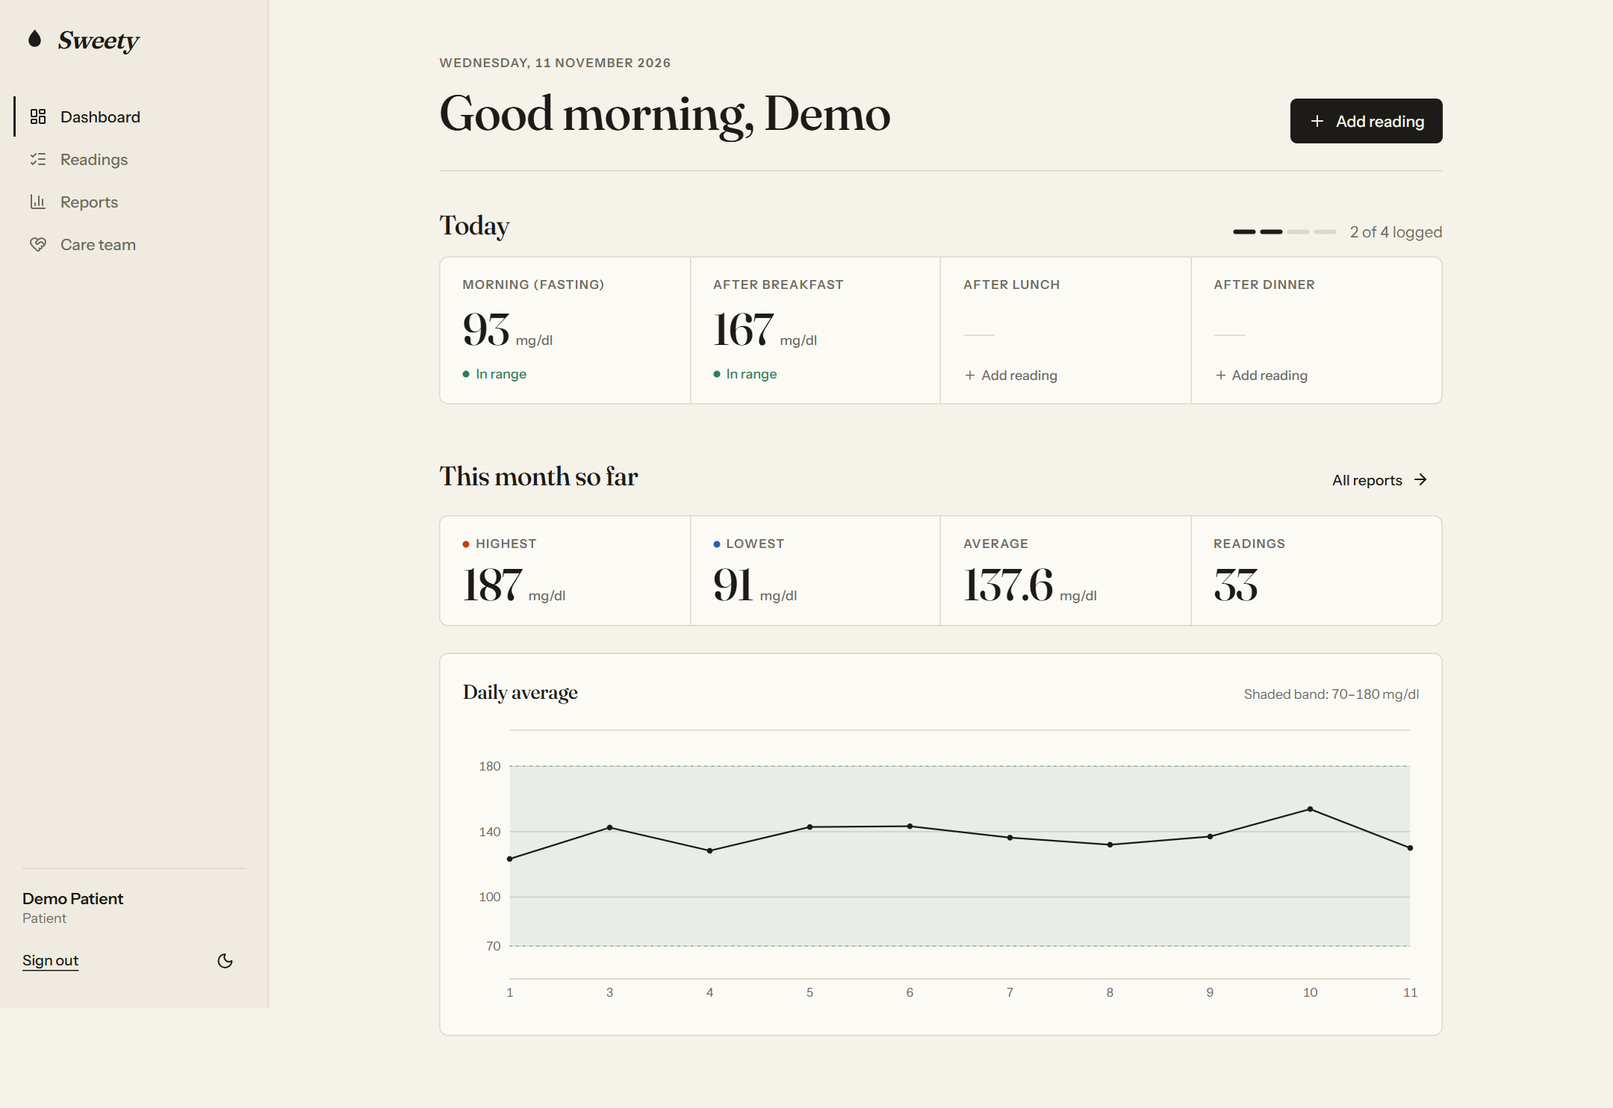
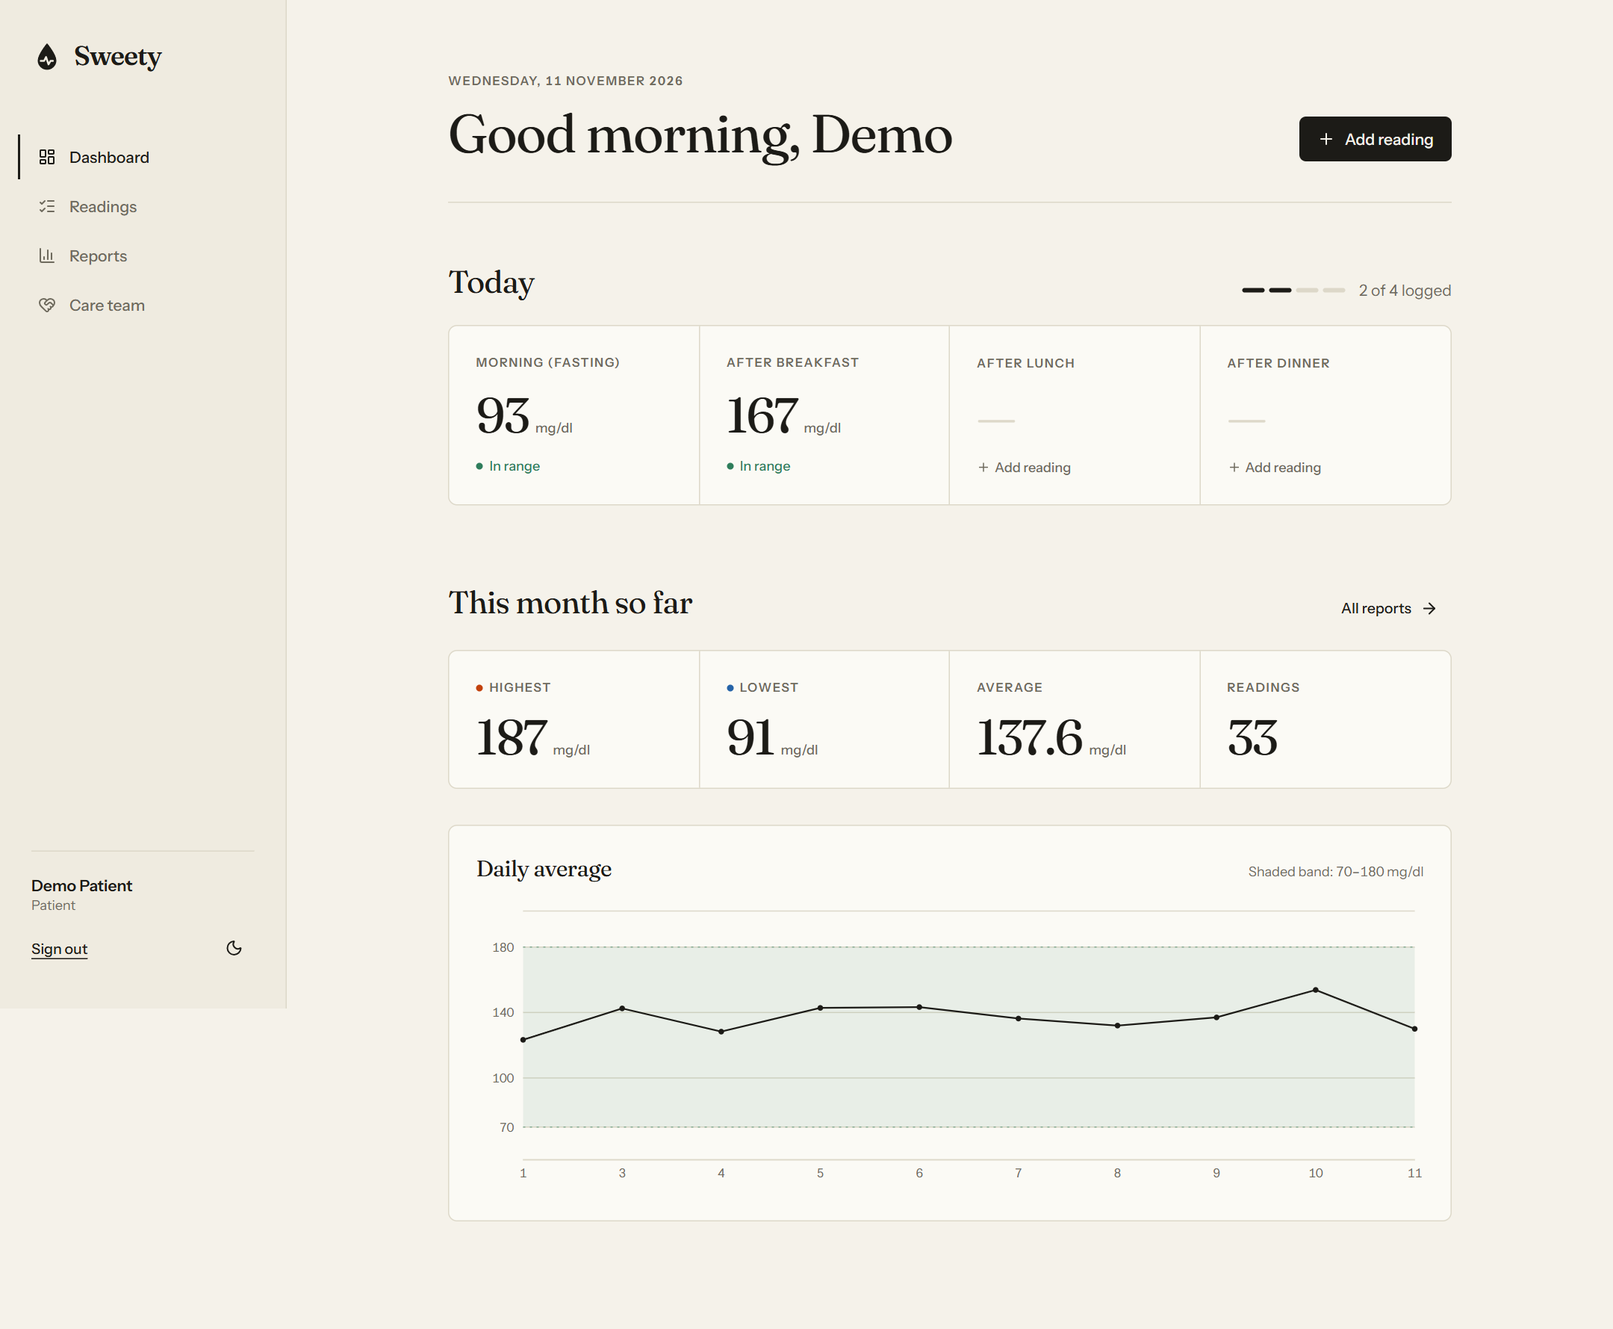
Apply consistent spacing rhythm across shell, dashboard, reports and forms; refresh screenshots

diff --git a/client/src/components/AppShell.jsx b/client/src/components/AppShell.jsx
@@ -5,13 +5,26 @@ import { Button } from '@/components/ui/primitives';
 import { useAuth } from '@/hooks/useAuth';
 import { cn } from '@/lib/utils';
 
+/** Drop with an ECG pulse cut out of it (mask keeps it background-agnostic). */
+export function LogoMark({ className }) {
+  return (
+    <svg viewBox="0 0 32 32" className={cn('size-7', className)} aria-hidden>
+      <defs>
+        <mask id="sweety-pulse">
+          <rect width="32" height="32" fill="#fff" />
+          <path d="M9.5 21h3.5l2-4 2.5 7.5 2-3.5h2.5" fill="none" stroke="#000" strokeWidth="1.9" strokeLinecap="round" strokeLinejoin="round" />
+        </mask>
+      </defs>
+      <path mask="url(#sweety-pulse)" fill="currentColor" d="M16 3S6.5 14 6.5 20.5a9.5 9.5 0 0 0 19 0C25.5 14 16 3 16 3z" />
+    </svg>
+  );
+}
+
 export function Logo({ className }) {
   return (
-    <div className={cn('flex items-center gap-2', className)}>
-      <svg viewBox="0 0 24 24" className="size-[22px]" aria-hidden>
-        <path d="M12 2.5c3.2 4 6 7 6 11a6 6 0 0 1-12 0c0-4 2.8-7 6-11z" fill="currentColor" />
-      </svg>
-      <span className="font-display text-[22px] font-semibold italic leading-none tracking-tight">Sweety</span>
+    <div className={cn('flex items-center gap-2.5', className)}>
+      <LogoMark />
+      <span className="font-display text-2xl font-semibold leading-none tracking-[-0.03em]">Sweety</span>
     </div>
   );
 }
@@ -44,19 +57,19 @@ export function AppShell() {
   return (
     <div className="min-h-dvh">
       {/* Desktop sidebar */}
-      <aside className="fixed inset-y-0 left-0 hidden w-60 flex-col border-r bg-paper-2 px-5 py-6 lg:flex">
-        <Logo className="mb-10" />
-        <nav className="flex flex-1 flex-col gap-0.5" aria-label="Main">
+      <aside className="fixed inset-y-0 left-0 hidden w-64 flex-col border-r bg-paper-2 px-7 py-9 lg:flex">
+        <Logo className="mb-14" />
+        <nav className="flex flex-1 flex-col gap-1" aria-label="Main">
           {nav.map(({ to, label, icon: Icon, end }) => (
             <NavLink
               key={to} to={to} end={end}
-              className={({ isActive }) => cn('-ml-2 flex items-center gap-3 border-l-2 border-transparent py-2 pl-3 text-sm font-medium text-muted-foreground transition-colors hover:text-foreground', isActive && 'border-foreground text-foreground')}
+              className={({ isActive }) => cn('-ml-3 flex items-center gap-3 border-l-2 border-transparent py-2.5 pl-4 text-sm font-medium text-muted-foreground transition-colors hover:text-foreground', isActive && 'border-foreground text-foreground')}
             >
               <Icon className="size-4" />{label}
             </NavLink>
           ))}
         </nav>
-        <div className="border-t pt-4">
+        <div className="border-t pt-5">
           <p className="truncate text-sm font-semibold">{user.name}</p>
           <p className="mb-3 text-xs capitalize text-muted-foreground">{user.role}</p>
           <div className="flex items-center justify-between">
@@ -75,7 +88,7 @@ export function AppShell() {
         </div>
       </header>
 
-      <main className="px-4 pb-24 pt-8 sm:px-8 lg:ml-60 lg:px-12 lg:pb-16 lg:pt-12">
+      <main className="px-5 pb-28 pt-9 sm:px-10 lg:ml-64 lg:px-16 lg:pb-24 lg:pt-16">
         <div className="mx-auto max-w-4xl"><Outlet /></div>
       </main>
 
@@ -96,11 +109,11 @@ export function AppShell() {
 
 export function PageHeader({ title, subtitle, eyebrow, actions }) {
   return (
-    <div className="mb-8 flex flex-col gap-4 border-b pb-6 sm:flex-row sm:items-end sm:justify-between">
+    <div className="mb-12 flex flex-col gap-5 border-b pb-9 sm:flex-row sm:items-end sm:justify-between">
       <div>
-        {eyebrow && <p className="eyebrow mb-2">{eyebrow}</p>}
-        <h1 className="text-4xl leading-tight sm:text-[2.75rem]">{title}</h1>
-        {subtitle && <p className="mt-2 max-w-xl text-muted-foreground">{subtitle}</p>}
+        {eyebrow && <p className="eyebrow mb-3">{eyebrow}</p>}
+        <h1 className="text-[2.5rem] leading-[1.05] sm:text-5xl">{title}</h1>
+        {subtitle && <p className="mt-3 max-w-xl text-muted-foreground">{subtitle}</p>}
       </div>
       {actions && <div className="flex gap-2">{actions}</div>}
     </div>

diff --git a/client/src/pages/AuthPage.jsx b/client/src/pages/AuthPage.jsx
@@ -81,12 +81,12 @@ export default function AuthPage() {
 
   return (
     <div className="grid min-h-dvh lg:grid-cols-[1.1fr_1fr]">
-      <div className="hidden flex-col justify-between border-r bg-paper-2 p-12 lg:flex">
+      <div className="hidden flex-col justify-between border-r bg-paper-2 p-16 lg:flex">
         <Logo />
         <div className="max-w-lg">
-          <h2 className="text-[3.5rem] leading-[1.02]">A quiet place to keep track of your sugar.</h2>
-          <p className="mt-5 max-w-md text-lg text-muted-foreground">Log up to four readings a day. Sweety turns them into plain daily and monthly summaries you can show your doctor.</p>
-          <div className="mt-12"><DaySketch /></div>
+          <h2 className="text-[3.75rem] leading-[1.02]">A quiet place to keep track of your sugar.</h2>
+          <p className="mt-6 max-w-md text-lg text-muted-foreground">Log up to four readings a day. Sweety turns them into plain daily and monthly summaries you can show your doctor.</p>
+          <div className="mt-16"><DaySketch /></div>
         </div>
         <p className="text-xs text-muted-foreground">Sweety is a tracking aid, not medical advice.</p>
       </div>
@@ -95,17 +95,17 @@ export default function AuthPage() {
         <div className="flex items-center justify-between p-5 lg:justify-end"><Logo className="lg:hidden" /><ThemeToggle /></div>
         <div className="flex flex-1 items-center justify-center px-6 pb-12">
           <div className="w-full max-w-sm">
-            <h1 className="text-4xl">{mode === 'login' ? 'Welcome back' : 'Create an account'}</h1>
-            <p className="mt-2 text-muted-foreground">{mode === 'login' ? 'Sign in to see your readings.' : 'It takes less than a minute.'}</p>
+            <h1 className="text-[2.5rem] leading-[1.05]">{mode === 'login' ? 'Welcome back' : 'Create an account'}</h1>
+            <p className="mt-3 text-muted-foreground">{mode === 'login' ? 'Sign in to see your readings.' : 'It takes less than a minute.'}</p>
 
-            <Tabs value={mode} onValueChange={(m) => { setMode(m); setErrors({}); setFormError(''); }} className="mt-7">
+            <Tabs value={mode} onValueChange={(m) => { setMode(m); setErrors({}); setFormError(''); }} className="mt-8">
               <TabsList className="w-full">
                 <TabsTrigger value="login">Sign in</TabsTrigger>
                 <TabsTrigger value="signup">Sign up</TabsTrigger>
               </TabsList>
             </Tabs>
 
-            <form onSubmit={submit} noValidate className="mt-6 space-y-4" aria-label={mode === 'login' ? 'Sign in' : 'Sign up'}>
+            <form onSubmit={submit} noValidate className="mt-7 space-y-5" aria-label={mode === 'login' ? 'Sign in' : 'Sign up'}>
               {mode === 'signup' && (
                 <>
                   <div className="grid grid-cols-2 gap-2" role="radiogroup" aria-label="Account type">
@@ -139,7 +139,7 @@ export default function AuthPage() {
             </form>
 
             {mode === 'login' && (
-              <p className="mt-6 text-center text-xs text-muted-foreground">
+              <p className="mt-8 text-center text-xs text-muted-foreground">
                 Demo accounts:{' '}
                 <button type="button" className="cursor-pointer font-semibold text-foreground underline underline-offset-4" onClick={() => fillDemo('patient')}>patient</button>{' · '}
                 <button type="button" className="cursor-pointer font-semibold text-foreground underline underline-offset-4" onClick={() => fillDemo('doctor')}>doctor</button>

diff --git a/client/src/components/ReportView.jsx b/client/src/components/ReportView.jsx
@@ -24,12 +24,12 @@ export function StatBand({ stats }) {
   return (
     <dl className="grid grid-cols-2 divide-x divide-y rounded-lg border bg-card lg:grid-cols-4 lg:divide-y-0">
       {items.map((it) => (
-        <div key={it.label} className="px-5 py-4">
+        <div key={it.label} className="px-6 py-6">
           <dt className="eyebrow flex items-center gap-1.5">
             {it.color && <span className="size-1.5 rounded-full" style={{ background: it.color }} aria-hidden />}
             {it.label}
           </dt>
-          <dd className="num mt-2 text-[2.5rem] leading-none">
+          <dd className="num mt-3 text-[2.75rem]">
             {it.value}
             {it.unit && <span className="ml-1.5 font-sans text-xs font-medium tracking-normal text-muted-foreground">{it.unit}</span>}
           </dd>
@@ -41,7 +41,7 @@ export function StatBand({ stats }) {
 
 export function EmptyState({ title = 'No readings yet', text, action }) {
   return (
-    <div className="rounded-lg border border-dashed px-6 py-12 sm:px-10">
+    <div className="rounded-lg border border-dashed px-8 py-14 sm:px-12">
       <h3 className="text-2xl">{title}</h3>
       <p className="mt-2 max-w-md text-sm text-muted-foreground">{text}</p>
       {action && <div className="mt-5">{action}</div>}
@@ -60,13 +60,13 @@ export function ReportBody({ report, onAdd }) {
     );
   }
   return (
-    <div className="space-y-6">
+    <div className="space-y-8">
       <StatBand stats={report.stats} />
 
       {report.type !== 'daily' && report.readings.length > 1 && (
-        <section className="rounded-lg border bg-card p-5">
-          <div className="mb-3 flex items-baseline justify-between gap-4">
-            <h3 className="text-lg">Daily average</h3>
+        <section className="rounded-lg border bg-card p-6">
+          <div className="mb-4 flex items-baseline justify-between gap-4">
+            <h3 className="text-xl">Daily average</h3>
             <p className="text-xs text-muted-foreground">Shaded band: 70–180 mg/dl</p>
           </div>
           <ReadingChart readings={report.readings} />
@@ -75,10 +75,10 @@ export function ReportBody({ report, onAdd }) {
 
       {report.type === 'daily' && (
         <section>
-          <h3 className="mb-2 text-lg">Readings</h3>
+          <h3 className="mb-3 text-xl">Readings</h3>
           <ul className="divide-y rounded-lg border bg-card">
             {report.readings.map((r) => (
-              <li key={r.id} className="flex items-center gap-4 px-5 py-3.5">
+              <li key={r.id} className="flex items-center gap-4 px-6 py-4">
                 <div className="min-w-0 flex-1">
                   <p className="text-sm font-medium">{r.slotLabel}</p>
                   {r.notes && <p className="truncate text-xs text-muted-foreground">{r.notes}</p>}
@@ -102,8 +102,8 @@ export function ReportExplorer({ patientId, onAdd, initialDate }) {
   const tab = REPORT_TABS.find((t) => t.value === type);
 
   return (
-    <div className="space-y-6">
-      <div className="flex flex-col gap-3 sm:flex-row sm:items-end sm:justify-between">
+    <div className="space-y-8">
+      <div className="flex flex-col gap-4 sm:flex-row sm:items-end sm:justify-between">
         <Tabs value={type} onValueChange={setType}>
           <TabsList>
             {REPORT_TABS.map((t) => <TabsTrigger key={t.value} value={t.value}>{t.label}</TabsTrigger>)}

diff --git a/client/src/pages/Dashboard.jsx b/client/src/pages/Dashboard.jsx
@@ -38,9 +38,9 @@ export default function Dashboard() {
         actions={<Button onClick={() => open()}><Plus />Add reading</Button>}
       />
 
-      <section aria-labelledby="today-heading" className="mb-12">
-        <div className="mb-3 flex items-baseline justify-between">
-          <h2 id="today-heading" className="text-2xl">Today</h2>
+      <section aria-labelledby="today-heading" className="mb-16">
+        <div className="mb-4 flex items-baseline justify-between">
+          <h2 id="today-heading" className="text-[1.75rem]">Today</h2>
           <div className="flex items-center gap-3 text-sm text-muted-foreground">
             <span className="flex gap-1" role="progressbar" aria-valuenow={done} aria-valuemin={0} aria-valuemax={MAX_PER_DAY} aria-label="Readings logged today">
               {Array.from({ length: MAX_PER_DAY }, (_, i) => <span key={i} className={cn('h-1 w-5 rounded-full', i < done ? 'bg-foreground' : 'bg-border')} />)}
@@ -57,18 +57,18 @@ export default function Dashboard() {
                 key={s.value} type="button"
                 onClick={() => (r ? open(r) : open(null, { date, slot: s.value }))}
                 aria-label={r ? `Edit ${s.label} reading` : `Add ${s.label} reading`}
-                className="group cursor-pointer px-5 py-4 text-left transition-colors hover:bg-secondary/60"
+                className="group cursor-pointer px-6 py-6 text-left transition-colors hover:bg-secondary/60"
               >
                 <p className="eyebrow">{s.label}</p>
                 {r ? (
                   <>
-                    <p className="num mt-3 text-[2.5rem] leading-none">{r.value}<span className="ml-1.5 font-sans text-xs font-medium tracking-normal text-muted-foreground">mg/dl</span></p>
-                    <Status status={glucoseStatus(r.value)} className="mt-3" />
+                    <p className="num mt-4 text-[2.75rem]">{r.value}<span className="ml-1.5 font-sans text-xs font-medium tracking-normal text-muted-foreground">mg/dl</span></p>
+                    <Status status={glucoseStatus(r.value)} className="mt-4" />
                   </>
                 ) : (
                   <>
-                    <p className="num mt-3 text-[2.5rem] leading-none text-border">—</p>
-                    <p className="mt-3 flex items-center gap-1 text-xs font-medium text-muted-foreground group-hover:text-foreground"><Plus className="size-3" />Add reading</p>
+                    <p className="num mt-4 text-[2.75rem] text-border">—</p>
+                    <p className="mt-4 flex items-center gap-1 text-xs font-medium text-muted-foreground group-hover:text-foreground"><Plus className="size-3" />Add reading</p>
                   </>
                 )}
               </button>
@@ -77,9 +77,9 @@ export default function Dashboard() {
         </div>
       </section>
 
-      <section aria-labelledby="mtd-heading" className="space-y-4">
+      <section aria-labelledby="mtd-heading" className="space-y-5">
         <div className="flex items-baseline justify-between">
-          <h2 id="mtd-heading" className="text-2xl">This month so far</h2>
+          <h2 id="mtd-heading" className="text-[1.75rem]">This month so far</h2>
           <Button asChild variant="ghost" size="sm"><Link to="/reports">All reports<ArrowRight /></Link></Button>
         </div>
         {month.loading && !month.data ? (

diff --git a/client/src/pages/ReadingsPage.jsx b/client/src/pages/ReadingsPage.jsx
@@ -47,7 +47,7 @@ export default function ReadingsPage() {
         actions={<Button onClick={() => setDialog({ open: true, reading: null })}><Plus />Add reading</Button>}
       />
 
-      <div className="mb-4 flex flex-wrap items-center gap-2">
+      <div className="mb-6 flex flex-wrap items-center gap-2">
         <label className="flex items-center gap-2 text-sm font-medium">
           <span className="text-muted-foreground">Filter by date</span>
           <input type="date" value={date} max={todayISO()} aria-label="Filter by date" onChange={(e) => { setDate(e.target.value); setPage(1); }}
@@ -72,7 +72,7 @@ export default function ReadingsPage() {
             {rows.map((r) => {
               const s = glucoseStatus(r.value);
               return (
-                <li key={r.id} className="flex items-center gap-4 px-5 py-4">
+                <li key={r.id} className="flex items-center gap-4 px-6 py-5">
                   <div className="min-w-0 flex-1">
                     <p className="font-medium">{r.slotLabel}</p>
                     <p className="truncate text-sm text-muted-foreground">{formatDate(r.date, { weekday: 'short', day: 'numeric', month: 'short', year: 'numeric' })}{r.notes ? ` · ${r.notes}` : ''}</p>
@@ -87,7 +87,7 @@ export default function ReadingsPage() {
               );
             })}
           </ul>
-          <div className="flex items-center justify-between border-t px-5 py-3 text-sm">
+          <div className="flex items-center justify-between border-t px-6 py-4 text-sm">
             <span className="text-muted-foreground">Page {pg.page} of {pg.totalPages} · {pg.total} readings</span>
             <div className="flex gap-1">
               <Button variant="outline" size="sm" disabled={pg.page <= 1} onClick={() => setPage(page - 1)}><ChevronLeft />Prev</Button>

diff --git a/client/src/components/ui/primitives.jsx b/client/src/components/ui/primitives.jsx
@@ -53,7 +53,7 @@ Label.displayName = 'Label';
 /** Label + control + inline error, wired for accessibility. */
 export function Field({ id, label, error, hint, children }) {
   return (
-    <div className="space-y-1.5">
+    <div className="space-y-2">
       <Label htmlFor={id}>{label}</Label>
       {children}
       {error ? (
@@ -69,10 +69,10 @@ export function Field({ id, label, error, hint, children }) {
 export const Card = ({ className, ...props }) => (
   <div className={cn('rounded-lg border bg-card text-card-foreground', className)} {...props} />
 );
-export const CardHeader = ({ className, ...props }) => <div className={cn('flex flex-col gap-1 p-5 pb-2', className)} {...props} />;
+export const CardHeader = ({ className, ...props }) => <div className={cn('flex flex-col gap-1.5 p-6 pb-2', className)} {...props} />;
 export const CardTitle = ({ className, ...props }) => <h3 className={cn('text-lg', className)} {...props} />;
 export const CardDescription = ({ className, ...props }) => <p className={cn('text-sm text-muted-foreground', className)} {...props} />;
-export const CardContent = ({ className, ...props }) => <div className={cn('p-5 pt-3', className)} {...props} />;
+export const CardContent = ({ className, ...props }) => <div className={cn('p-6 pt-3', className)} {...props} />;
 
 /** Small coloured dot + label, e.g. "● In range". Colour carries the meaning; no pill background. */
 export function Status({ status, className }) {

diff --git a/client/src/pages/CareTeamPage.jsx b/client/src/pages/CareTeamPage.jsx
@@ -35,7 +35,7 @@ export default function CareTeamPage() {
   return (
     <>
       <PageHeader title="Care team" subtitle="Choose which doctors can view your readings and reports. You stay in control and can revoke access any time." />
-      <div className="grid gap-5 lg:grid-cols-5">
+      <div className="grid gap-8 lg:grid-cols-5">
         <Card className="lg:col-span-2 self-start">
           <CardHeader><CardTitle>Share with a doctor</CardTitle><CardDescription>They need a Sweety doctor account.</CardDescription></CardHeader>
           <CardContent>
@@ -54,7 +54,7 @@ export default function CareTeamPage() {
             {loading && !data ? null : data?.data.length ? (
               <ul className="divide-y">
                 {data.data.map((d) => (
-                  <li key={d.id} className="flex items-center gap-3 py-3">
+                  <li key={d.id} className="flex items-center gap-3 py-4">
                     
                     <div className="min-w-0 flex-1"><p className="font-medium">{d.name}</p><p className="truncate text-sm text-muted-foreground">{d.email}</p></div>
                     <Button variant="ghost" size="sm" className="text-destructive hover:bg-destructive/10" onClick={() => remove(d)} aria-label={`Stop sharing with ${d.name}`}><Trash2 />Remove</Button>

diff --git a/client/src/components/ui/overlays.jsx b/client/src/components/ui/overlays.jsx
@@ -14,12 +14,12 @@ export function DialogContent({ className, children, title, description, ...prop
       <DialogPrimitive.Overlay className="fixed inset-0 z-50 bg-black/40" />
       <DialogPrimitive.Content
         className={cn(
-          'fixed left-1/2 top-1/2 z-50 w-[calc(100%-2rem)] max-w-md -translate-x-1/2 -translate-y-1/2 rounded-lg border bg-card p-6 shadow-xl outline-none max-h-[90vh] overflow-y-auto',
+          'fixed left-1/2 top-1/2 z-50 w-[calc(100%-2rem)] max-w-md -translate-x-1/2 -translate-y-1/2 rounded-lg border bg-card p-7 shadow-xl outline-none max-h-[90vh] overflow-y-auto',
           className,
         )}
         {...props}
       >
-        <div className="mb-5 space-y-1.5 pr-6">
+        <div className="mb-6 space-y-2 pr-6">
           <DialogPrimitive.Title className="text-xl">{title}</DialogPrimitive.Title>
           <DialogPrimitive.Description className="text-sm text-muted-foreground">{description}</DialogPrimitive.Description>
         </div>

diff --git a/client/src/components/ReadingForm.jsx b/client/src/components/ReadingForm.jsx
@@ -59,8 +59,8 @@ export function ReadingForm({ initial, onSubmit, onCancel, existingForDate = () 
   }
 
   return (
-    <form onSubmit={handleSubmit} noValidate className="space-y-5" aria-label="Reading form">
-      <div className="grid gap-5 sm:grid-cols-2">
+    <form onSubmit={handleSubmit} noValidate className="space-y-6" aria-label="Reading form">
+      <div className="grid gap-6 sm:grid-cols-2">
         <Field id="reading-date" label="Date" error={errors.date}>
           <Input id="reading-date" type="date" max={todayISO()} value={form.date} onChange={set('date')} invalid={!!errors.date} aria-describedby={errors.date ? 'reading-date-error' : undefined} />
         </Field>

diff --git a/client/src/pages/DoctorPages.jsx b/client/src/pages/DoctorPages.jsx
@@ -23,7 +23,7 @@ export function DoctorPatients() {
           <ul className="divide-y" aria-label="Patients">
             {data.data.map((p) => (
               <li key={p.id}>
-                <Link to={`/patients/${p.id}`} className="flex items-center gap-4 px-5 py-4 transition-colors hover:bg-secondary/60">
+                <Link to={`/patients/${p.id}`} className="flex items-center gap-4 px-6 py-5 transition-colors hover:bg-secondary/60">
                   
                   <div className="min-w-0 flex-1">
                     <p className="font-display text-lg">{p.name}</p>
